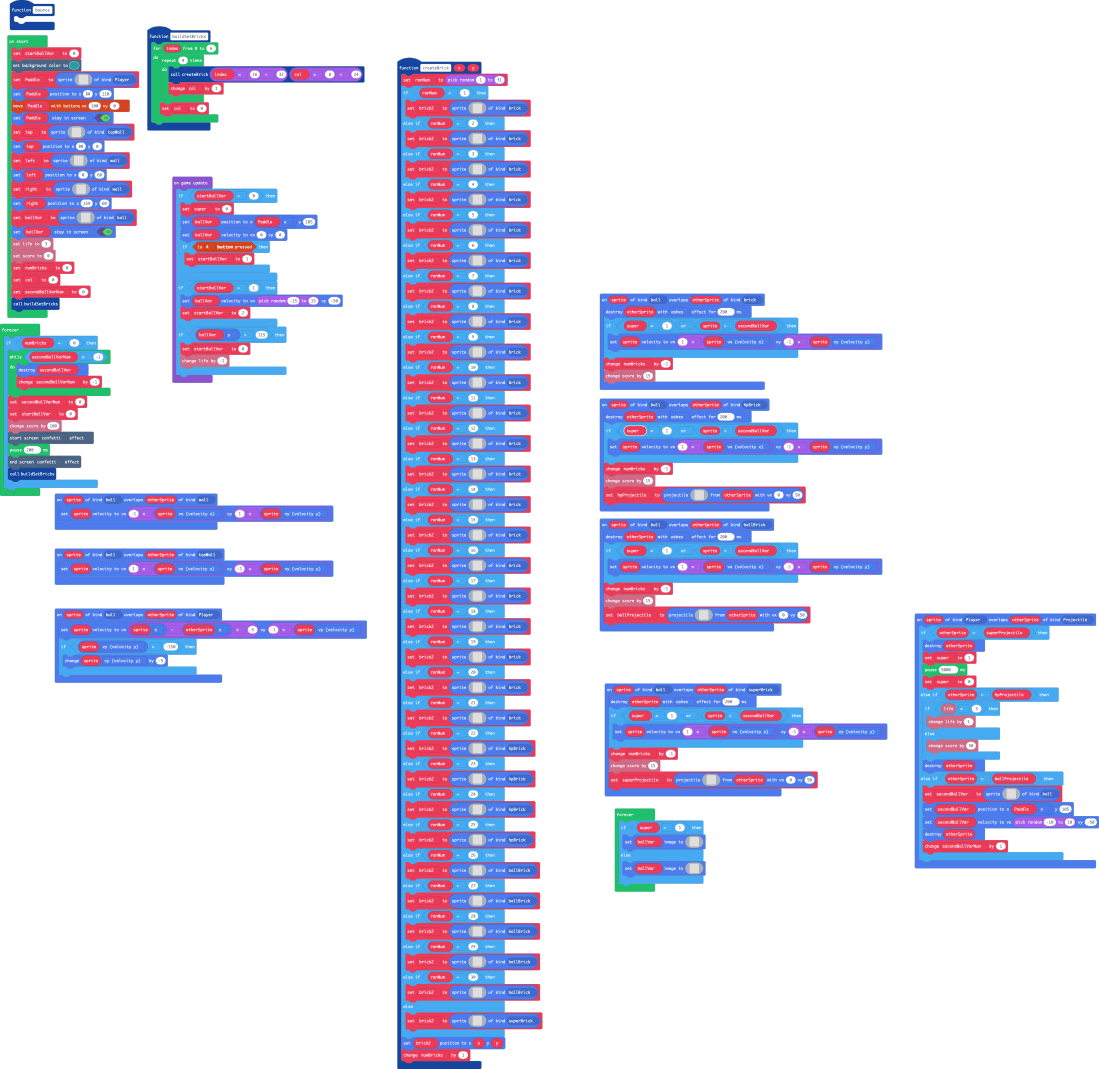
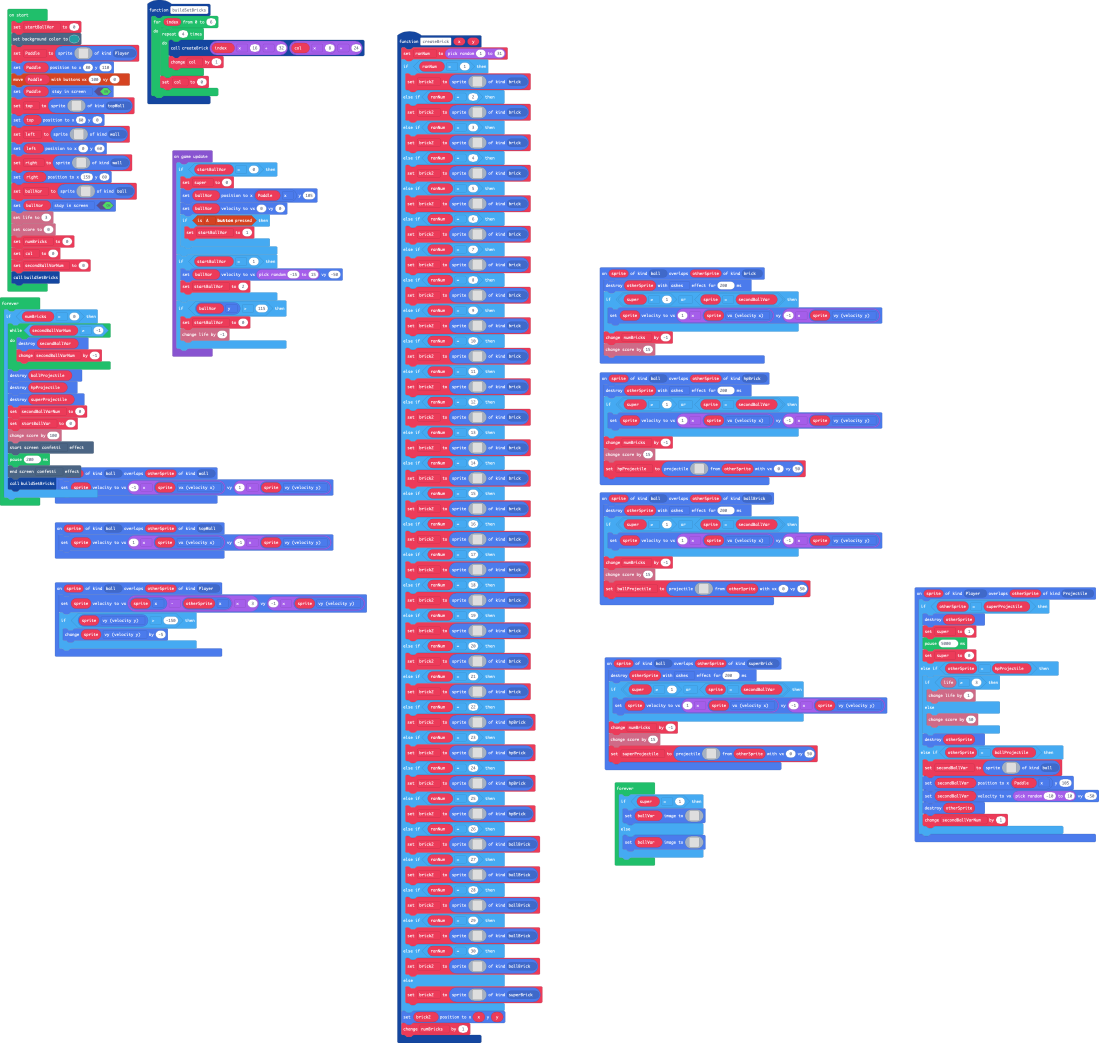
Update main.blocks, main.ts

Changed region(s): [[0.0, 0.0, 0.495, 1.0], [0.5259, 0.2454, 0.8044, 0.8591], [0.8353, 0.5523, 1.0, 0.8284]]

diff --git a/main.ts b/main.ts
@@ -16,9 +16,6 @@ sprites.onOverlap(SpriteKind.ball, SpriteKind.brick, function (sprite, otherSpri
     numBricks += -1
     info.changeScoreBy(15)
 })
-function bounce () {
-	
-}
 sprites.onOverlap(SpriteKind.ball, SpriteKind.wall, function (sprite, otherSprite) {
     sprite.setVelocity(-1 * sprite.vx, 1 * sprite.vy)
 })
@@ -767,6 +764,9 @@ forever(function () {
             secondBallVar.destroy()
             secondBallVarNum += -1
         }
+        ballProjectile.destroy()
+        hpProjectile.destroy()
+        superProjectile.destroy()
         secondBallVarNum = 0
         startBallVar = 0
         info.changeScoreBy(100)
